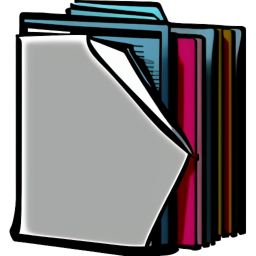
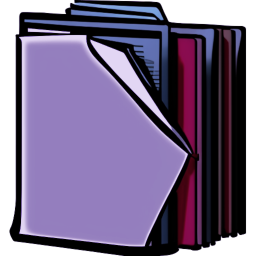
more webpage formatting work

diff --git a/src/wwwroot/js/genpage.js b/src/wwwroot/js/genpage.js
@@ -271,8 +271,10 @@ class FileListCallHelper {
     }
 };
 
-function loadFileList(api, upButton, path, container, loadCaller, fileCallback, endCallback, sortFunc) {
+function loadFileList(api, upButton, pather, path, container, loadCaller, fileCallback, endCallback, sortFunc) {
     genericRequest(api, {'path': path}, data => {
+        let pathGen = document.getElementById(pather);
+        pathGen.innerText = '';
         let prefix;
         upButton = document.getElementById(upButton);
         if (path == '') {
@@ -280,6 +282,21 @@ function loadFileList(api, upButton, path, container, loadCaller, fileCallback, 
             upButton.disabled = true;
         }
         else {
+            let partial = '';
+            for (let part of ("../" + path).split('/')) {
+                partial += part + '/';
+                let span = document.createElement('span');
+                span.className = 'path-list-part';
+                span.innerText = part;
+                let route = partial.substring(3, partial.length - 1);
+                if (route == '/') {
+                    route = '';
+                }
+                let helper = new FileListCallHelper(route, loadCaller);
+                span.onclick = helper.call.bind(helper);
+                pathGen.appendChild(span);
+                pathGen.appendChild(document.createTextNode('/'));
+            }
             prefix = path + '/';
             upButton.disabled = false;
             let above = path.split('/').slice(0, -1).join('/');
@@ -307,7 +324,7 @@ function loadHistory(path) {
     let container = document.getElementById('image_history');
     lastImageDir = path;
     container.innerHTML = '';
-    loadFileList('ListImages', 'image_history_up_button', path, container, loadHistory, (prefix, img) => {
+    loadFileList('ListImages', 'image_history_up_button', 'image_history_path', path, container, loadHistory, (prefix, img) => {
         let fullSrc = `Output/${prefix}${img.src}`;
         let batchId = 0;
         if (img.metadata) {

diff --git a/src/wwwroot/js/genpage_presets.js b/src/wwwroot/js/genpage_presets.js
@@ -164,10 +164,7 @@ function updatePresetList() {
             if (param) {
                 if (param.type != "text" || !preset.param_map[key].includes("{value}")) {
                     let elem = document.getElementById(`input_${param.id}`);
-                    let toggler = document.getElementById(`input_${param.id}_toggle`);
-                    if (elem.disabled && (!param.toggleable || !toggler.checked)) {
-                        overrideCount += 1;
-                    }
+                    overrideCount += 1;
                     elem.disabled = true;
                     if (param.toggleable) {
                         document.getElementById(`input_${param.id}_toggle`).disabled = true;
@@ -267,12 +264,22 @@ function addPreset(preset) {
     desc.innerText = preset.title + ":\n" + preset.description + "\n";
     let addButton = createDiv(null, 'basic-button');
     addButton.innerText = ' Use ';
-    addButton.addEventListener('click', () => {
+    let useClick = () => {
         if (!currentPresets.some(p => p.title == preset.title)) {
             currentPresets.push(preset);
             updatePresetList();
+            div.classList.add('preset-block-selected');
+            addButton.innerText = ' Remove ';
         }
-    });
+        else {
+            currentPresets.splice(currentPresets.indexOf(preset), 1);
+            updatePresetList();
+            div.classList.remove('preset-block-selected');
+            addButton.innerText = ' Use ';
+        }
+    };
+    addButton.addEventListener('click', useClick);
+    img.addEventListener('click', useClick);
     desc.appendChild(addButton);
     let applyButton = createDiv(null, 'basic-button');
     applyButton.innerText = ' Direct Apply ';

diff --git a/src/wwwroot/css/genpage.css b/src/wwwroot/css/genpage.css
@@ -201,12 +201,12 @@ body {
     border: 1px solid black;
 }
 .model-selected {
-    border: 1px solid rgba(0, 255, 0, 1.0);
-    background-color: rgba(200, 255, 200, 0.3);
+    border: 1px solid var(--box-selected-border-stronger);
+    background-color: var(--box-selected-background-stronger);
 }
 .model-loaded {
-    border: 1px solid rgba(100, 255, 100, 0.5);
-    background-color: rgba(220, 255, 220, 0.3);
+    border: 1px solid var(--box-selected-border);
+    background-color: var(--box-selected-background);
 }
 .sui_popover_model {
     white-space: normal;
@@ -251,6 +251,7 @@ body {
     color: var(--button-text);
     border-radius: 0.5rem;
     border: 1px solid var(--button-border);
+    min-width: 2rem;
 }
 .refresh-button:hover {
     background-color: var(--button-background-hover);
@@ -285,6 +286,10 @@ body {
 .preset-block {
     border: 1px solid var(--light-border);
     width: 30rem;
+}
+.preset-block-selected {
+    border: 1px solid var(--box-selected-border);
+    background-color: var(--box-selected-background);
 }
 .preset-descblock {
     width: 20rem;
@@ -361,4 +366,10 @@ body {
     padding-right: 0.2rem;
     border-left: 1px solid var(--light-border);
     border-right: 1px solid var(--light-border);
+}
+.path-list-part {
+    border-bottom: 1px dotted var(--text);
+    cursor: pointer;
+    margin-left: 0.2rem;
+    margin-right: 0.2rem;
 }

diff --git a/src/wwwroot/css/site.css b/src/wwwroot/css/site.css
@@ -9,7 +9,7 @@
     --light-border: #3f3f46;
     --red: #ff0000;
     --green: #00ff00;
-    --qbutton: #00a0a0;
+    --qbutton: #7855e1;
     --popup-back: #000000;
     --popup-front: #ffffff;
     --button-background-hover: color-mix(in srgb, #7855e1 70%, black);
@@ -24,10 +24,14 @@
     --danger-button-background: #550000;
     --button-background-disabled: #3f3f46;
     --button-foreground-disabled: #aaaaaa;
-    --batch-0: rgba(200, 200, 255, 0.3);
-    --batch-1: rgba(255, 255, 255, 0.3);
+    --batch-0: rgba(200, 200, 200, 0.3);
+    --batch-1: rgba(200, 200, 200, 0.3);
     --text: #eeeeee;
     --text-soft: #aaaaaa;
+    --box-selected-border: rgba(120, 85, 225, 0.8);
+    --box-selected-background: rgba(120, 85, 225, 0.2);
+    --box-selected-border-stronger: rgba(120, 85, 225, 1.0);
+    --box-selected-background-stronger: rgba(120, 85, 225, 0.3);
 }
 .modal-content {
     background-color: var(--background) !important;

diff --git a/src/wwwroot/js/genpage_models.js b/src/wwwroot/js/genpage_models.js
@@ -134,7 +134,7 @@ function loadModelList(path, isRefresh = false) {
     lastModelDir = path;
     container.innerHTML = '';
     models = {};
-    call = () => loadFileList('ListModels', 'model_list_up_button', path, container, loadModelList, (prefix, model) => {
+    call = () => loadFileList('ListModels', 'model_list_up_button', 'model_folder_path', path, container, loadModelList, (prefix, model) => {
         appendModel(container, prefix, model);
     }, () => {
         let current_model = document.getElementById('current_model');
